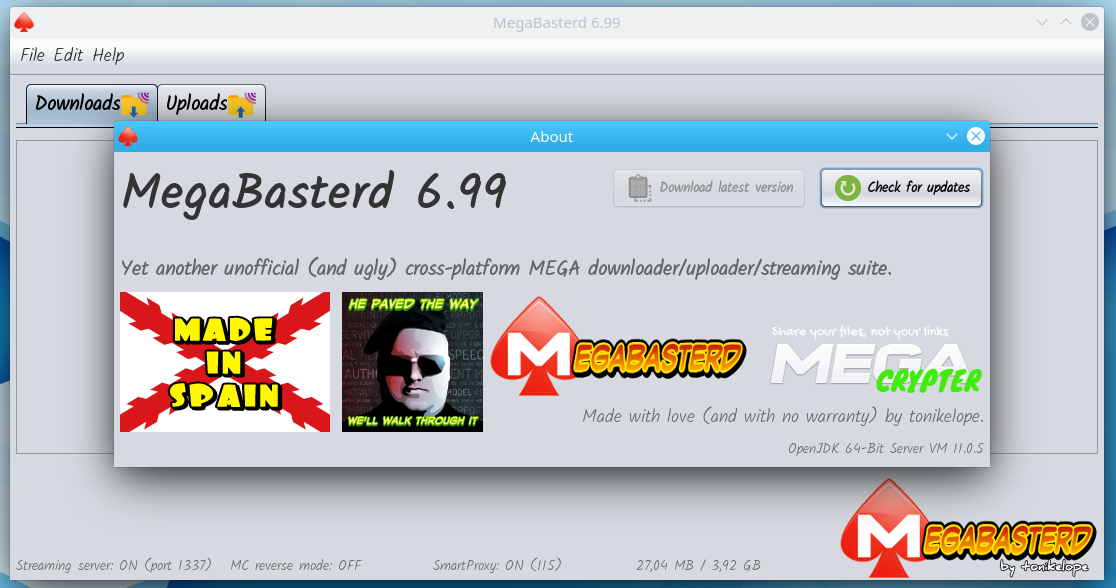
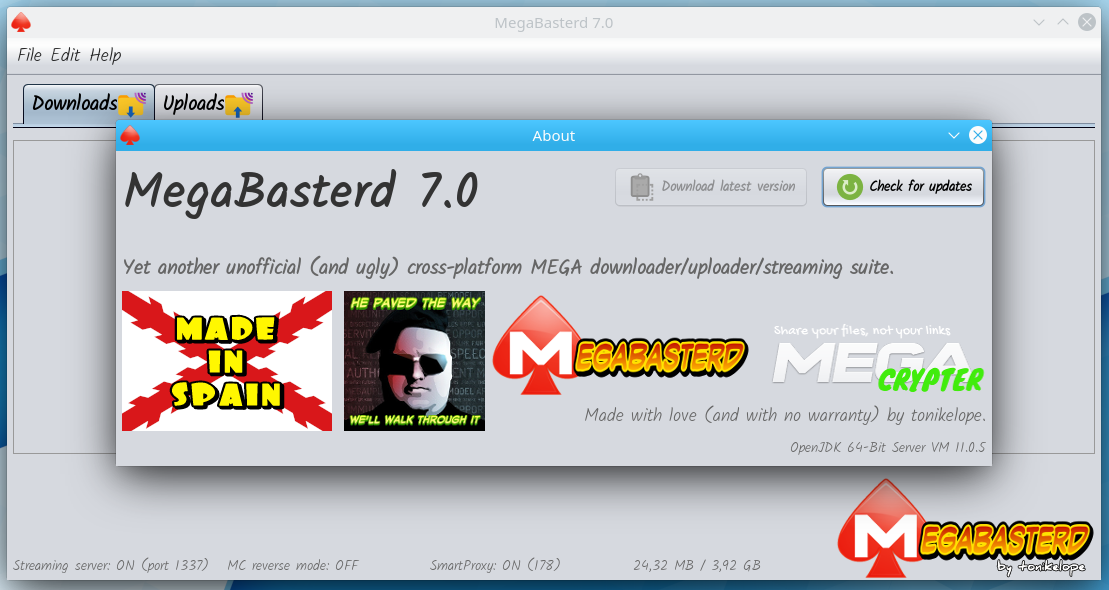
7.0
- Some Smart Proxy tunning (excluded proxy list)

(cherry picked from commit 42a67b9983eb9bf8f2fcbb20a88b8616b4f1057d)

Changed region(s): [[0.0, 0.0, 1.0, 1.0], [0.4292, 0.0306, 0.5518, 0.0612]]

diff --git a/src/main/java/com/tonikelope/megabasterd/MiscTools.java b/src/main/java/com/tonikelope/megabasterd/MiscTools.java
@@ -49,6 +49,7 @@ import java.util.Collections;
 import java.util.Comparator;
 import java.util.Enumeration;
 import java.util.HashMap;
+import java.util.LinkedHashMap;
 import java.util.List;
 import java.util.Random;
 import java.util.concurrent.Callable;
@@ -849,15 +850,17 @@ public class MiscTools {
             return false;
         }
 
-        boolean url_ok = false;
-
         HttpURLConnection con = null;
 
-        boolean error = false, error509 = false, error403 = false;
+        boolean error = false;
+
+        int http_status = 0, http_error = 0;
 
         SmartMegaProxyManager proxy_manager = MainPanel.getProxy_manager();
 
-        String current_proxy = null;
+        String current_smart_proxy = null;
+
+        LinkedHashMap<String, Long> excluded_proxy_list = new LinkedHashMap<>();
 
         do {
 
@@ -867,26 +870,28 @@ public class MiscTools {
 
                 if (con == null || error) {
 
-                    if (error509 && MainPanel.isUse_smart_proxy() && !MainPanel.isUse_proxy()) {
+                    if ((current_smart_proxy != null || http_error == 509) && MainPanel.isUse_smart_proxy() && !MainPanel.isUse_proxy()) {
 
-                        if (MainPanel.isUse_smart_proxy() && proxy_manager == null) {
+                        if (current_smart_proxy != null && error) {
 
-                            proxy_manager = MainPanel.getProxy_manager();
+                            if (http_error == 509) {
+                                proxy_manager.blockProxy(current_smart_proxy);
+                            }
 
+                            excluded_proxy_list.put(current_smart_proxy, System.currentTimeMillis() + SmartMegaProxyManager.BLOCK_TIME * 1000);
+
+                            SmartMegaProxyManager.purgeExcludedProxyList(excluded_proxy_list);
+
+                            current_smart_proxy = proxy_manager.getProxy(excluded_proxy_list);
+
+                        } else if (current_smart_proxy == null) {
+
+                            current_smart_proxy = proxy_manager.getProxy(excluded_proxy_list);
                         }
 
-                        if (error && !error403 && current_proxy != null) {
+                        if (current_smart_proxy != null) {
 
-                            proxy_manager.blockProxy(current_proxy);
-                            Logger.getLogger(MiscTools.class.getName()).log(Level.WARNING, "{0}: excluding proxy -> {1}", new Object[]{Thread.currentThread().getName(), current_proxy});
-
-                        }
-
-                        current_proxy = proxy_manager.getProxy();
-
-                        if (current_proxy != null) {
-
-                            String[] proxy_info = current_proxy.split(":");
+                            String[] proxy_info = current_smart_proxy.split(":");
 
                             Proxy proxy = new Proxy(Proxy.Type.HTTP, new InetSocketAddress(proxy_info[0], Integer.parseInt(proxy_info[1])));
 
@@ -926,7 +931,7 @@ public class MiscTools {
 
                 }
 
-                if (current_proxy != null) {
+                if (current_smart_proxy != null) {
                     con.setConnectTimeout(Transference.HTTP_PROXY_CONNECT_TIMEOUT);
                     con.setReadTimeout(Transference.HTTP_PROXY_READ_TIMEOUT);
                 }
@@ -935,12 +940,10 @@ public class MiscTools {
 
                 con.setRequestProperty("User-Agent", MainPanel.DEFAULT_USER_AGENT);
 
-                int http_status = con.getResponseCode();
+                http_status = con.getResponseCode();
 
-                if (http_status != 403) {
-
-                    url_ok = true;
-
+                if (http_status != 200) {
+                    http_error = http_status;
                 }
 
             } catch (IOException ex) {
@@ -952,9 +955,9 @@ public class MiscTools {
                 }
             }
 
-        } while (error509);
+        } while (http_error == 509);
 
-        return url_ok;
+        return http_status != 403;
     }
 
     public static String getMyPublicIP() {

diff --git a/src/main/java/com/tonikelope/megabasterd/StreamChunkDownloader.java b/src/main/java/com/tonikelope/megabasterd/StreamChunkDownloader.java
@@ -8,6 +8,7 @@ import java.net.InetSocketAddress;
 import java.net.Proxy;
 import java.net.URISyntaxException;
 import java.net.URL;
+import java.util.LinkedHashMap;
 import java.util.logging.Level;
 import java.util.logging.Logger;
 
@@ -52,6 +53,8 @@ public class StreamChunkDownloader implements Runnable {
 
             SmartMegaProxyManager proxy_manager = MainPanel.getProxy_manager();
 
+            LinkedHashMap<String, Long> excluded_proxy_list = new LinkedHashMap<>();
+
             while (!_exit && !_chunkmanager.isExit()) {
 
                 while (!_exit && !_chunkmanager.isExit() && _chunkmanager.getChunk_queue().size() >= StreamChunkManager.BUFFER_CHUNKS_SIZE) {
@@ -74,14 +77,27 @@ public class StreamChunkDownloader implements Runnable {
 
                     StreamChunk chunk_stream = new StreamChunk(offset, _chunkmanager.calculateChunkSize(offset), url);
 
-                    if (http_error == 509 && MainPanel.isUse_smart_proxy() && !MainPanel.isUse_proxy()) {
+                    if ((current_smart_proxy != null || http_error == 509) && MainPanel.isUse_smart_proxy() && !MainPanel.isUse_proxy()) {
 
-                        if (current_smart_proxy != null) {
+                        if (current_smart_proxy != null && http_error != 0) {
 
-                            proxy_manager.blockProxy(current_smart_proxy);
+                            if (http_error == 509) {
+                                proxy_manager.blockProxy(current_smart_proxy);
+                            }
+
+                            excluded_proxy_list.put(current_smart_proxy, System.currentTimeMillis() + SmartMegaProxyManager.BLOCK_TIME * 1000);
+
+                            SmartMegaProxyManager.purgeExcludedProxyList(excluded_proxy_list);
+
+                            current_smart_proxy = proxy_manager.getProxy(excluded_proxy_list);
+
+                            Logger.getLogger(MiscTools.class.getName()).log(Level.WARNING, "{0}: worker {1} excluding proxy -> {2}", new Object[]{Thread.currentThread().getName(), _id, current_smart_proxy});
+
+                        } else if (current_smart_proxy == null) {
+
+                            current_smart_proxy = proxy_manager.getProxy(excluded_proxy_list);
+
                         }
-
-                        current_smart_proxy = proxy_manager.getProxy();
 
                         if (current_smart_proxy != null) {
 
@@ -177,6 +193,8 @@ public class StreamChunkDownloader implements Runnable {
                                         _chunkmanager.getChunk_queue().put(chunk_stream.getOffset(), chunk_stream);
 
                                         _chunkmanager.secureNotifyAll();
+
+                                        current_smart_proxy = null;
                                     }
                                 }
                             }

diff --git a/src/main/java/com/tonikelope/megabasterd/ChunkDownloader.java b/src/main/java/com/tonikelope/megabasterd/ChunkDownloader.java
@@ -12,6 +12,7 @@ import java.net.InetSocketAddress;
 import java.net.Proxy;
 import java.net.SocketTimeoutException;
 import java.net.URL;
+import java.util.LinkedHashMap;
 import java.util.logging.Level;
 import java.util.logging.Logger;
 
@@ -31,6 +32,7 @@ public class ChunkDownloader implements Runnable, SecureSingleThreadNotifiable {
     private volatile boolean _error_wait;
     private volatile boolean _chunk_exception;
     private boolean _notified;
+    private final LinkedHashMap<String, Long> _excluded_proxy_list;
 
     private String _current_smart_proxy;
 
@@ -42,6 +44,7 @@ public class ChunkDownloader implements Runnable, SecureSingleThreadNotifiable {
         _id = id;
         _download = download;
         _current_smart_proxy = null;
+        _excluded_proxy_list = new LinkedHashMap<>();
         _error_wait = false;
 
     }
@@ -129,7 +132,7 @@ public class ChunkDownloader implements Runnable, SecureSingleThreadNotifiable {
 
             if (FORCE_SMART_PROXY) {
 
-                _current_smart_proxy = proxy_manager.getProxy();
+                _current_smart_proxy = proxy_manager.getProxy(_excluded_proxy_list);
 
                 if (!getDownload().isTurbo()) {
                     getDownload().enableTurboMode();
@@ -165,15 +168,21 @@ public class ChunkDownloader implements Runnable, SecureSingleThreadNotifiable {
 
                     if (_current_smart_proxy != null && (slow_proxy || chunk_error)) {
 
-                        proxy_manager.blockProxy(_current_smart_proxy);
+                        if (http_error == 509) {
+                            proxy_manager.blockProxy(_current_smart_proxy);
+                        }
 
-                        _current_smart_proxy = proxy_manager.getProxy();
+                        _excluded_proxy_list.put(_current_smart_proxy, System.currentTimeMillis() + SmartMegaProxyManager.BLOCK_TIME * 1000);
+
+                        SmartMegaProxyManager.purgeExcludedProxyList(_excluded_proxy_list);
+
+                        _current_smart_proxy = proxy_manager.getProxy(_excluded_proxy_list);
 
                         Logger.getLogger(MiscTools.class.getName()).log(Level.WARNING, "{0}: worker {1} excluding proxy -> {2} {3}", new Object[]{Thread.currentThread().getName(), _id, _current_smart_proxy, _download.getFile_name()});
 
                     } else if (_current_smart_proxy == null) {
 
-                        _current_smart_proxy = proxy_manager.getProxy();
+                        _current_smart_proxy = proxy_manager.getProxy(_excluded_proxy_list);
 
                         if (!getDownload().isTurbo()) {
                             getDownload().enableTurboMode();

diff --git a/src/main/java/com/tonikelope/megabasterd/MegaAPI.java b/src/main/java/com/tonikelope/megabasterd/MegaAPI.java
@@ -16,6 +16,7 @@ import java.net.Proxy;
 import java.net.URL;
 import java.util.Arrays;
 import java.util.HashMap;
+import java.util.LinkedHashMap;
 import java.util.List;
 import java.util.Random;
 import java.util.logging.Level;
@@ -359,20 +360,32 @@ public class MegaAPI implements Serializable {
 
         HttpsURLConnection con = null;
 
+        LinkedHashMap<String, Long> excluded_proxy_list = new LinkedHashMap<>();
+
+        SmartMegaProxyManager proxy_manager = MainPanel.getProxy_manager();
+
         do {
 
             try {
 
-                if (http_error == 509 && !MainPanel.isUse_proxy()) {
+                if ((current_smart_proxy != null || http_error == 509) && MainPanel.isUse_smart_proxy() && !MainPanel.isUse_proxy()) {
 
-                    if (current_smart_proxy != null) {
+                    if (current_smart_proxy != null && (http_error != 0 || mega_error != 0)) {
 
-                        Logger.getLogger(MiscTools.class.getName()).log(Level.WARNING, "{0}: excluding proxy -> {1}", new Object[]{Thread.currentThread().getName(), current_smart_proxy});
+                        if (http_error == 509) {
+                            proxy_manager.blockProxy(current_smart_proxy);
+                        }
 
-                        MainPanel.getProxy_manager().blockProxy(current_smart_proxy);
+                        excluded_proxy_list.put(current_smart_proxy, System.currentTimeMillis() + SmartMegaProxyManager.BLOCK_TIME * 1000);
+
+                        SmartMegaProxyManager.purgeExcludedProxyList(excluded_proxy_list);
+
+                        current_smart_proxy = proxy_manager.getProxy(excluded_proxy_list);
+
+                    } else if (current_smart_proxy == null) {
+
+                        current_smart_proxy = proxy_manager.getProxy(excluded_proxy_list);
                     }
-
-                    current_smart_proxy = MainPanel.getProxy_manager().getProxy();
 
                     if (current_smart_proxy != null) {
 

diff --git a/src/main/java/com/tonikelope/megabasterd/SmartMegaProxyManager.java b/src/main/java/com/tonikelope/megabasterd/SmartMegaProxyManager.java
@@ -9,7 +9,9 @@ import java.net.MalformedURLException;
 import java.net.URL;
 import java.util.ArrayList;
 import java.util.Arrays;
+import java.util.Iterator;
 import java.util.LinkedHashMap;
+import java.util.Map;
 import java.util.Set;
 import java.util.logging.Level;
 import java.util.logging.Logger;
@@ -34,12 +36,28 @@ public final class SmartMegaProxyManager {
         refreshProxyList();
     }
 
+    public static void purgeExcludedProxyList(LinkedHashMap<String, Long> excluded) {
+
+        Long current_time = System.currentTimeMillis();
+
+        Iterator<Map.Entry<String, Long>> iterator = excluded.entrySet().iterator();
+
+        while (iterator.hasNext()) {
+
+            Map.Entry<String, Long> entry = iterator.next();
+
+            if (entry.getValue() < current_time) {
+                iterator.remove();
+            }
+        }
+    }
+
     public synchronized int getProxyCount() {
 
         return _proxy_list.size();
     }
 
-    public synchronized String getProxy() {
+    public synchronized String getProxy(LinkedHashMap<String, Long> excluded) {
 
         if (_proxy_list.size() > 0) {
 
@@ -49,7 +67,7 @@ public final class SmartMegaProxyManager {
 
             for (String k : keys) {
 
-                if (_proxy_list.get(k) < current_time) {
+                if (_proxy_list.get(k) < current_time && (excluded == null || (excluded.containsKey(k) && excluded.get(k) < current_time))) {
 
                     return k;
                 }
@@ -60,7 +78,7 @@ public final class SmartMegaProxyManager {
 
         refreshProxyList();
 
-        return getProxyCount() > 0 ? getProxy() : null;
+        return getProxyCount() > 0 ? getProxy(excluded) : null;
     }
 
     public synchronized void blockProxy(String proxy) {

diff --git a/src/main/java/com/tonikelope/megabasterd/MainPanel.java b/src/main/java/com/tonikelope/megabasterd/MainPanel.java
@@ -54,7 +54,7 @@ import javax.swing.UIManager;
  */
 public final class MainPanel {
 
-    public static final String VERSION = "6.99";
+    public static final String VERSION = "7.0";
     public static final int THROTTLE_SLICE_SIZE = 16 * 1024;
     public static final int DEFAULT_BYTE_BUFFER_SIZE = 16 * 1024;
     public static final int STREAMER_PORT = 1337;
